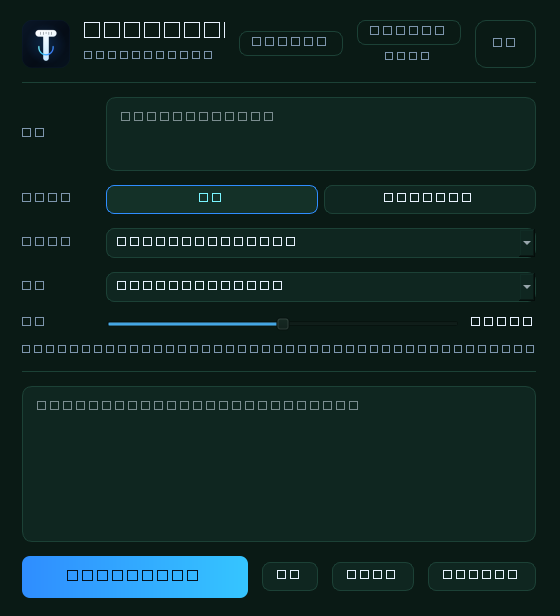
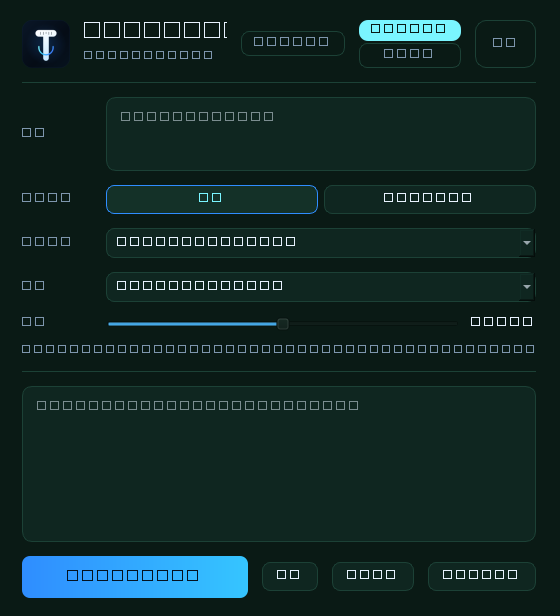
feat(beta): mode shown as inverse status chip, switch mode is now a button

Changed region(s): [[0.6375, 0.0308, 0.8196, 0.1234], [0.4857, 0.0617, 0.5768, 0.0925], [0.425, 0.0617, 0.4554, 0.0925]]

diff --git a/tongsheng/ui/main_window.py b/tongsheng/ui/main_window.py
@@ -135,15 +135,15 @@ class MainWindow(QWidget):
 
         mode_box = QVBoxLayout()
         mode_box.setSpacing(2)
-        self.mode_button = QPushButton()
+        self.mode_status = QLabel()
+        self.mode_status.setObjectName("modestatus")
+        self.mode_status.setAlignment(Qt.AlignCenter)
+        mode_box.addWidget(self.mode_status)
+        self.mode_button = QPushButton(t("mode.caption"))
         self.mode_button.setObjectName("ghost")
         self.mode_button.setCursor(Qt.PointingHandCursor)
         self.mode_button.clicked.connect(self._toggle_mode)
         mode_box.addWidget(self.mode_button)
-        self.mode_caption = QLabel(t("mode.caption"))
-        self.mode_caption.setObjectName("hint")
-        self.mode_caption.setAlignment(Qt.AlignCenter)
-        mode_box.addWidget(self.mode_caption)
         header.addLayout(mode_box)
 
         self.state_label = QLabel()
@@ -327,8 +327,9 @@ class MainWindow(QWidget):
         self.text_input.setVisible(text_mode)
         if hasattr(self, "meter"):
             self.meter.setVisible(not text_mode)
-        self.mode_button.setText(t("mode.text") if text_mode else t("mode.voice"))
-        self.mode_button.setToolTip(t("mode.caption"))
+        self.mode_status.setText(t("mode.text") if text_mode else t("mode.voice"))
+        self.mode_status.setToolTip(t("mode.caption"))
+        self.mode_button.setText(t("mode.caption"))
         self.quality_label.setText(t("row.text") if text_mode else t("menu.mode"))
         self.language_label.setText(
             t("settings.ui_language") if text_mode else t("settings.input_language"))
@@ -493,7 +494,7 @@ class MainWindow(QWidget):
         self.record_box.setText(t("menu.record"))
         self.record_box.setChecked(self.config.ui.record_output)
         self.text_input.setPlaceholderText(t("mode.text_placeholder"))
-        self.mode_caption.setText(t("mode.caption"))
+        self.mode_button.setText(t("mode.caption"))
         self._apply_mode()
         self.lang_row.set_current(self.config.language)
         self._fill_output_languages()

diff --git a/tongsheng/ui/palette.py b/tongsheng/ui/palette.py
@@ -52,6 +52,13 @@ QLabel#hint {{
     color: {MUTED};
     font-size: 12px;
 }}
+QLabel#modestatus {{
+    background: {CYAN};
+    color: {BG};
+    font-weight: 600;
+    padding: 4px 12px;
+    border-radius: 9px;
+}}
 QLabel#state {{
     color: {MUTED};
     padding: 4px 10px;

diff --git a/docs/RELEASE-BETA-TextRec.en.md b/docs/RELEASE-BETA-TextRec.en.md
@@ -13,8 +13,8 @@ A second working mode: instead of speaking, you type text — the app translates
 
 ### Mode switch
 
-- A single button sits in the header, right of **Voice model training**. Its label shows the current mode; click it to switch between *Voice input* and *Text to audio*.
-- A small caption under the button reads **Switch mode**.
+- The header (right of **Voice model training**) shows the active mode as a highlighted status chip — inverse colours, so it reads as state rather than as a control.
+- The button underneath reads **Switch mode**; clicking it toggles between *Voice input* and *Text to audio*.
 - Voice input mode keeps the original blue-tinted dark theme. Text-to-audio mode shifts the whole window to a subtle emerald dark tone, so the active mode is recognisable at a glance while staying dark.
 - The mode is remembered in `config.yaml` and restored on the next start.
 

diff --git a/docs/RELEASE-BETA-TextRec.zh.md b/docs/RELEASE-BETA-TextRec.zh.md
@@ -13,8 +13,8 @@
 
 ### 模式切换
 
-- 主窗口右上角、**声音模型训练**按钮右侧只有一个按钮，按钮上显示当前模式，点击即在**语音输入模式**与**文字录音模式**之间切换。
-- 按钮下方有一行小字提示：**模式切换**。
+- 主窗口右上角、**声音模型训练**按钮右侧，当前模式以**反色高亮的标签**呈现（深色文字 + 亮色底），一眼看出这是状态而不是按钮。
+- 标签下方是**「模式切换」按钮**，点击即在**语音输入模式**与**文字录音模式**之间切换。
 - 语音输入模式保持原有的蓝调暗色主题；文字录音模式整体转为微翠绿的暗色，不看文字也能感知当前模式，两者都仍是暗色调。
 - 模式会记录在 `config.yaml` 中，下次启动自动恢复。
 
